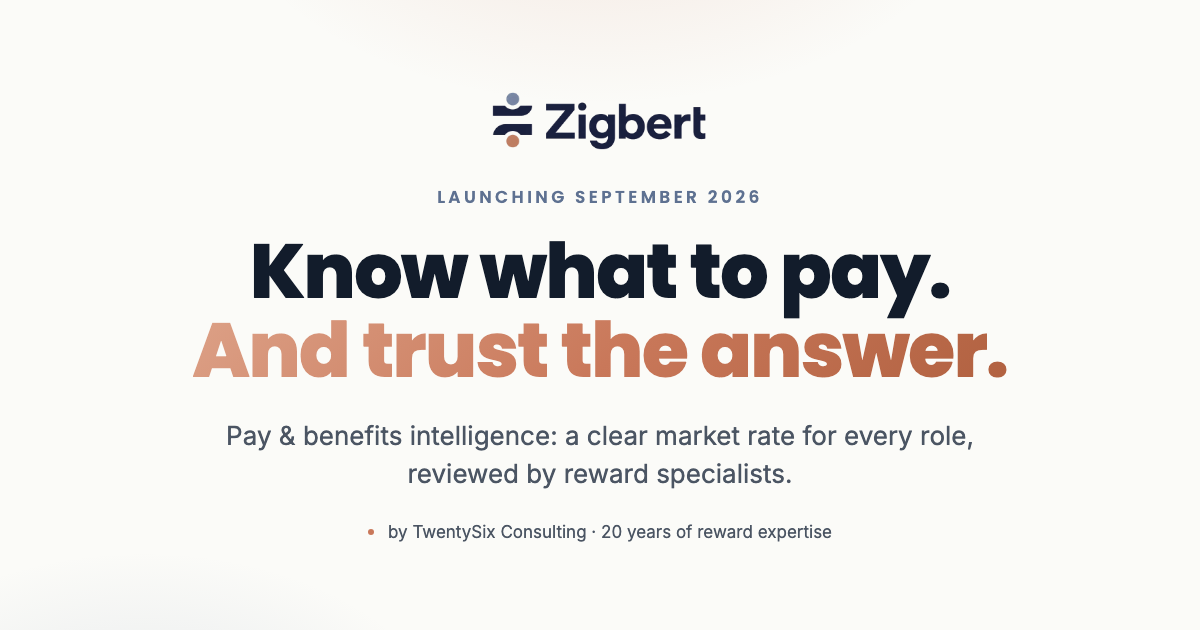
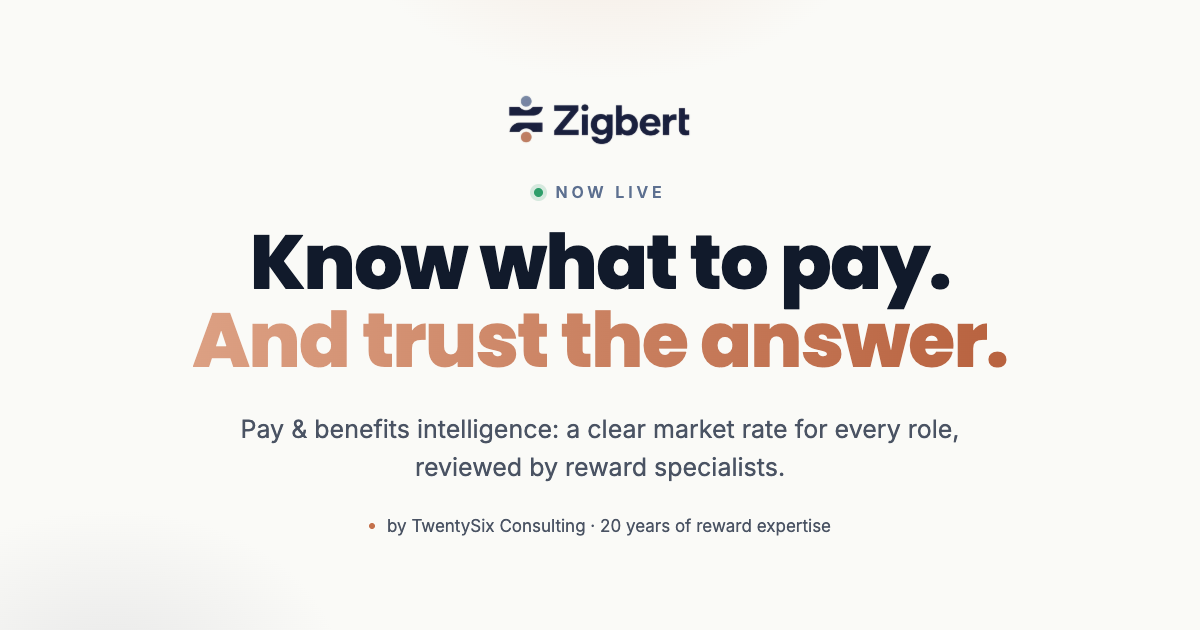
Social share image says Now live instead of Launching September 2026
New file name so LinkedIn and others fetch it fresh rather than serving the cached pre-launch image.

diff --git a/index.html b/index.html
@@ -19,7 +19,7 @@
     <meta property="og:type" content="website" />
     <meta property="og:site_name" content="Zigbert" />
     <meta property="og:url" content="https://zigbert.co.uk/" />
-    <meta property="og:image" content="https://zigbert.co.uk/og-cover.png" />
+    <meta property="og:image" content="https://zigbert.co.uk/og-cover-live.png" />
     <meta property="og:image:width" content="1200" />
     <meta property="og:image:height" content="630" />
     <meta property="og:image:alt" content="Zigbert — Know what to pay. And trust the answer." />
@@ -29,7 +29,7 @@
       name="twitter:description"
       content="Know what to pay, and trust the answer. Now live! Get in touch for a demo."
     />
-    <meta name="twitter:image" content="https://zigbert.co.uk/og-cover.png" />
+    <meta name="twitter:image" content="https://zigbert.co.uk/og-cover-live.png" />
     <link rel="preconnect" href="https://fonts.googleapis.com" />
     <link rel="preconnect" href="https://fonts.gstatic.com" crossorigin />
     <link

diff --git a/zigbertdesign.md b/zigbertdesign.md
@@ -88,7 +88,7 @@ Applied via component styles (`.btn-primary`, `.blue-gradient`), not a `@theme` 
 | `zigbert-mark.png` | Standalone mark, navy | Light backgrounds, watermarks |
 | `zigbert-mark-light.png` | Standalone mark, cream | Dark backgrounds, watermarks |
 | `favicon.png` | Mark centred on a cream rounded tile | Browser tab / app icon |
-| `og-cover.png` | 1200×630 social share image (centred lockup + headline) | Link previews (OG/Twitter) |
+| `og-cover-live.png` | 1200×630 social share image (centred lockup + headline) | Link previews (OG/Twitter) |
 
 All logo PNGs have transparent backgrounds. Lockup aspect ratio ≈ **3.33 : 1**; mark ≈ **0.74 : 1**.
 
